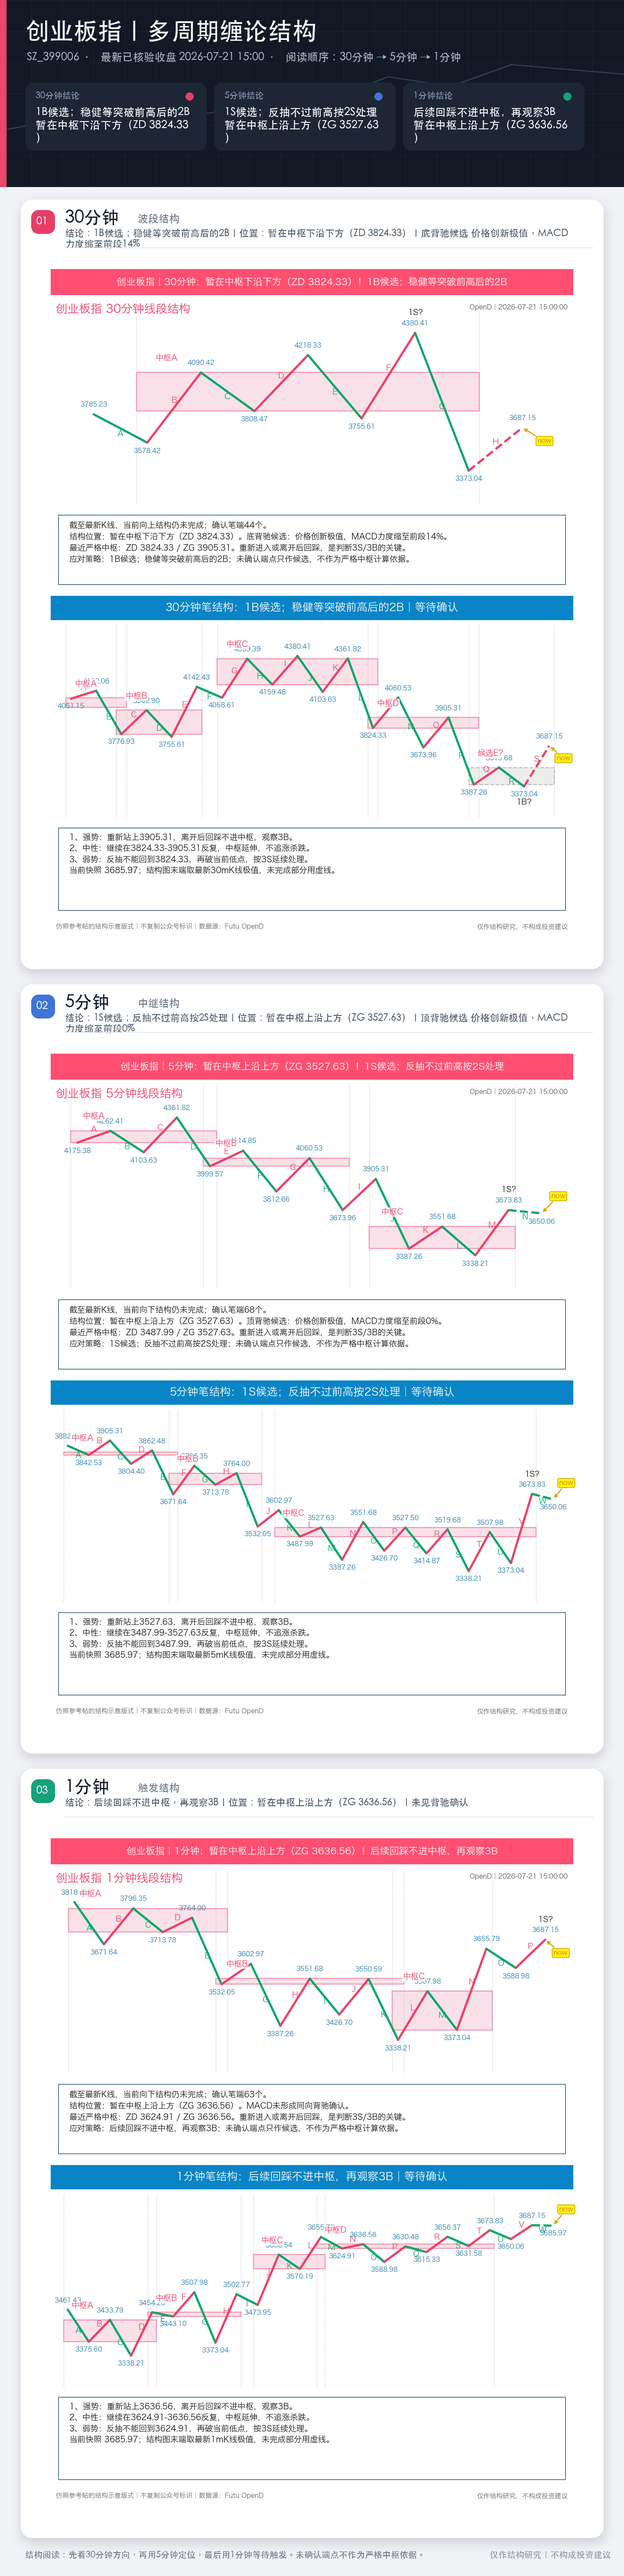
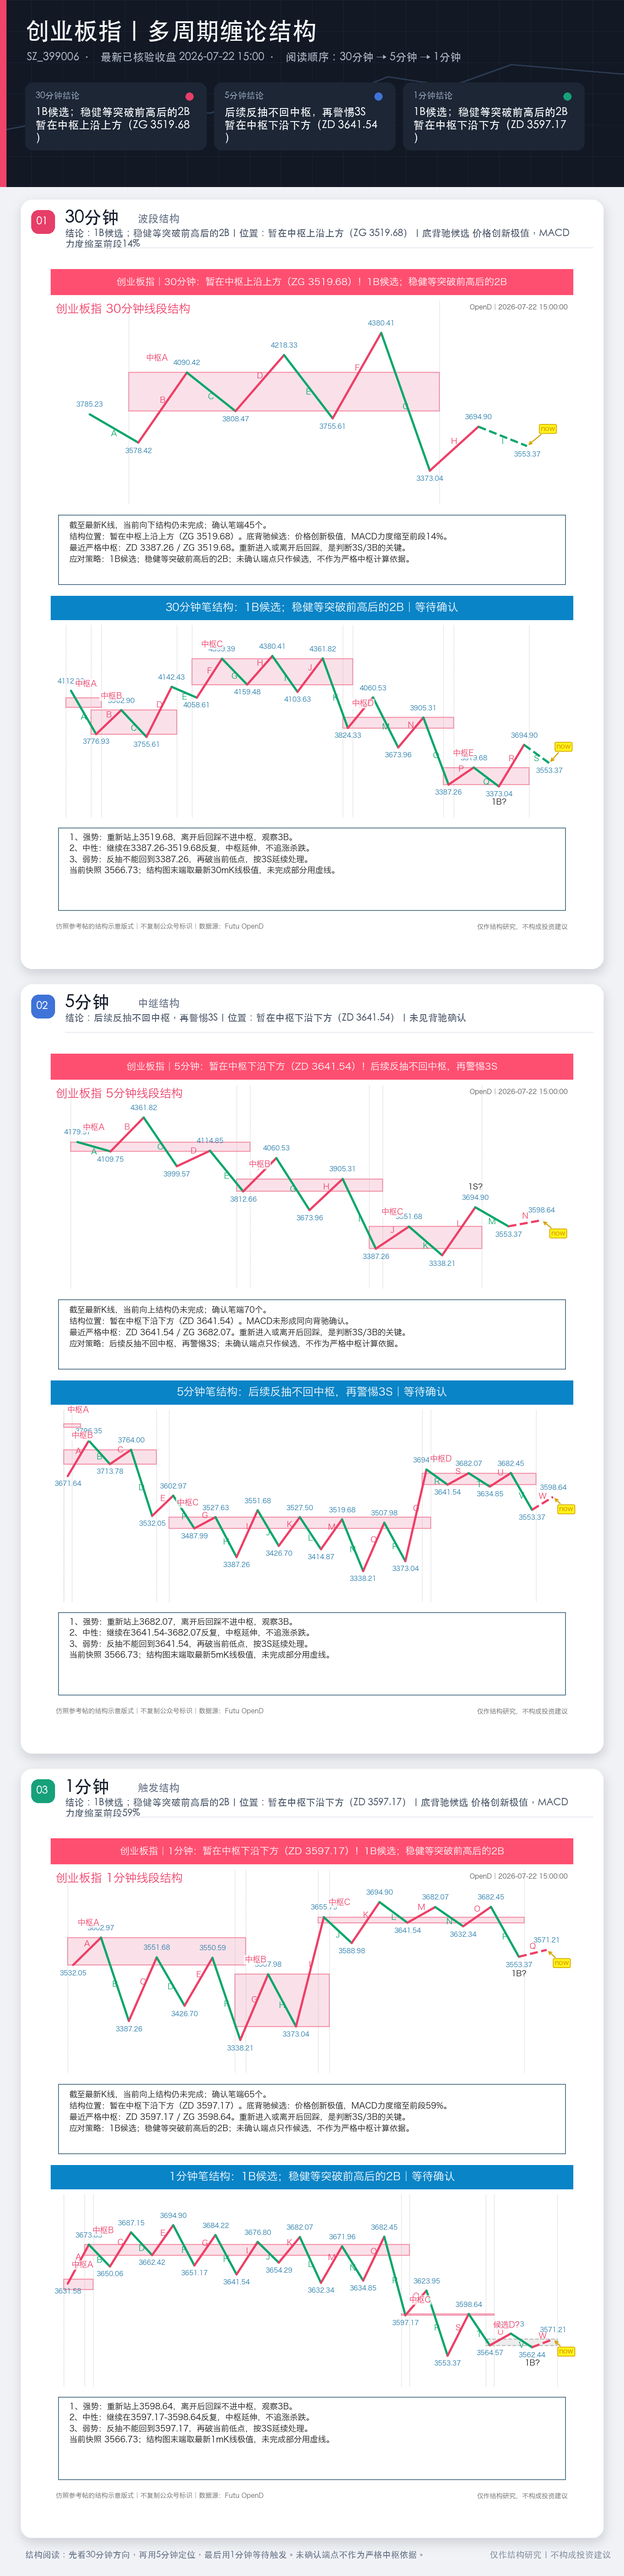
Update chanlun review for 2026-07-22

diff --git a/chanlun/index.html b/chanlun/index.html
@@ -200,8 +200,8 @@
     <header>
       <h1>A股三指数缠论复盘</h1>
       <div class="sub">
-        <span class="badge">交易日 2026-07-21</span>
-        <span class="badge">345/345 校验通过</span>
+        <span class="badge">交易日 2026-07-22</span>
+        <span class="badge">339/339 校验通过</span>
         <span class="badge">页面每 300 秒自动刷新</span>
       </div>
     </header>
@@ -210,33 +210,33 @@
               <div class="card-head">
                 <div>
                   <h2>上证指数</h2>
-                  <p>SH.000001 · 最新已核验收盘 2026-07-21 15:00:00</p>
+                  <p>SH.000001 · 最新已核验收盘 2026-07-22 15:00:00</p>
                 </div>
                 <div class="price-box">
                   <span>收盘</span>
-                  <strong>3864.37</strong>
+                  <strong>3867.03</strong>
                 </div>
               </div>
-              <img src="SH_000001_30m_5m_1m_combined_chanlun.png?v=1784619585" alt="上证指数 合并图">
+              <img src="SH_000001_30m_5m_1m_combined_chanlun.png?v=1784705990" alt="上证指数 合并图">
               <ul class="signals">
-                <li><b>30m</b><span>1B候选；稳健等突破前高后的2B</span><em>暂在中枢下沿下方（ZD 4073.73）</em></li>
-<li><b>5m</b><span>1S候选；反抽不过前高按2S处理</span><em>暂在中枢上沿上方（ZG 3820.77）</em></li>
-<li><b>1m</b><span>后续回踩不进中枢，再观察3B</span><em>暂在中枢上沿上方（ZG 3843.15）</em></li>
+                <li><b>30m</b><span>1B候选；稳健等突破前高后的2B</span><em>暂在中枢上沿上方（ZG 3828.34）</em></li>
+<li><b>5m</b><span>后续回踩不进中枢，再观察3B</span><em>暂在中枢上沿上方（ZG 3820.77）</em></li>
+<li><b>1m</b><span>后续反抽不回中枢，再警惕3S</span><em>暂在中枢下沿下方（ZD 3870.36）</em></li>
               </ul>
               <div class="analysis">
                 <h3>当前点位分析</h3>
                 <ul>
-                  <li>30分钟当前是“1B候选；稳健等突破前高后的2B”，位置为“暂在中枢下沿下方（ZD 4073.73）”；底背驰候选：价格创新极值，MACD力度缩至前段6%，说明有反抽基础，但还不是确认买点。</li>
-                  <li>5分钟当前信号为“1S候选；反抽不过前高按2S处理”，位置为“暂在中枢上沿上方（ZG 3820.77）”；顶背驰候选：价格创新极值，MACD力度缩至前段11%。</li>
-                  <li>1分钟当前是“后续回踩不进中枢，再观察3B”，位置为“暂在中枢上沿上方（ZG 3843.15）”；这里的含义是暂时站在中枢上沿外侧，不等于已经确认3B。</li>
+                  <li>30分钟当前是“1B候选；稳健等突破前高后的2B”，位置为“暂在中枢上沿上方（ZG 3828.34）”；底背驰候选：价格创新极值，MACD力度缩至前段6%，说明有反抽基础，但还不是确认买点。</li>
+                  <li>5分钟当前是“后续回踩不进中枢，再观察3B”，位置为“暂在中枢上沿上方（ZG 3820.77）”；这里的含义是暂时站在中枢上沿外侧，不等于已经确认3B。</li>
+                  <li>1分钟当前是“后续反抽不回中枢，再警惕3S”，位置为“暂在中枢下沿下方（ZD 3870.36）”；MACD未见同向背驰确认。</li>
                 </ul>
               </div>
               <div class="outlook">
-                <h3>下一交易日预案（2026-07-22，节假日顺延）</h3>
+                <h3>下一交易日预案（2026-07-23，节假日顺延）</h3>
                 <ul>
-                  <li>强势修复：先看 1 分钟能否继续站在 3843.15 上方，若后续回踩不进中枢，再上看 5 分钟修复位 3762.86，再强才谈 3820.77 以上的延续。</li>
-                  <li>中性震荡：若主要在 3762.86-3843.15 之间反复，就继续按修复中的箱体震荡看；未重新回到 3762.86 上方前，不把它当反转。</li>
-                  <li>弱势破位：若重新跌回 3843.15 下方且再破今日低点 3743.36，则本轮回抽视为失败，继续等新的 1B/B1；30 分钟未回到 4073.73 附近前，不按主结构修复处理。</li>
+                  <li>强势修复：先看 1 分钟能否继续站在 3879.21 上方，若后续回踩不进中枢，再上看 5 分钟修复位 3762.86，再强才谈 3820.77 以上的延续。</li>
+                  <li>中性震荡：若主要在 3762.86-3879.21 之间反复，就继续按修复中的箱体震荡看；未重新回到 3762.86 上方前，不把它当反转。</li>
+                  <li>弱势破位：若重新跌回 3879.21 下方且再破今日低点 3839.67，则本轮回抽视为失败，继续等新的 1B/B1；30 分钟未回到 3745.17 附近前，不按主结构修复处理。</li>
                 </ul>
               </div>
             </section>
@@ -244,33 +244,33 @@
               <div class="card-head">
                 <div>
                   <h2>创业板指</h2>
-                  <p>SZ.399006 · 最新已核验收盘 2026-07-21 15:00:00</p>
+                  <p>SZ.399006 · 最新已核验收盘 2026-07-22 15:00:00</p>
                 </div>
                 <div class="price-box">
                   <span>收盘</span>
-                  <strong>3685.97</strong>
+                  <strong>3566.73</strong>
                 </div>
               </div>
-              <img src="SZ_399006_30m_5m_1m_combined_chanlun.png?v=1784619585" alt="创业板指 合并图">
+              <img src="SZ_399006_30m_5m_1m_combined_chanlun.png?v=1784705990" alt="创业板指 合并图">
               <ul class="signals">
-                <li><b>30m</b><span>1B候选；稳健等突破前高后的2B</span><em>暂在中枢下沿下方（ZD 3824.33）</em></li>
-<li><b>5m</b><span>1S候选；反抽不过前高按2S处理</span><em>暂在中枢上沿上方（ZG 3527.63）</em></li>
-<li><b>1m</b><span>后续回踩不进中枢，再观察3B</span><em>暂在中枢上沿上方（ZG 3636.56）</em></li>
+                <li><b>30m</b><span>1B候选；稳健等突破前高后的2B</span><em>暂在中枢上沿上方（ZG 3519.68）</em></li>
+<li><b>5m</b><span>后续反抽不回中枢，再警惕3S</span><em>暂在中枢下沿下方（ZD 3641.54）</em></li>
+<li><b>1m</b><span>1B候选；稳健等突破前高后的2B</span><em>暂在中枢下沿下方（ZD 3597.17）</em></li>
               </ul>
               <div class="analysis">
                 <h3>当前点位分析</h3>
                 <ul>
-                  <li>30分钟当前是“1B候选；稳健等突破前高后的2B”，位置为“暂在中枢下沿下方（ZD 3824.33）”；底背驰候选：价格创新极值，MACD力度缩至前段14%，说明有反抽基础，但还不是确认买点。</li>
-                  <li>5分钟当前信号为“1S候选；反抽不过前高按2S处理”，位置为“暂在中枢上沿上方（ZG 3527.63）”；顶背驰候选：价格创新极值，MACD力度缩至前段0%。</li>
-                  <li>1分钟当前是“后续回踩不进中枢，再观察3B”，位置为“暂在中枢上沿上方（ZG 3636.56）”；这里的含义是暂时站在中枢上沿外侧，不等于已经确认3B。</li>
+                  <li>30分钟当前是“1B候选；稳健等突破前高后的2B”，位置为“暂在中枢上沿上方（ZG 3519.68）”；底背驰候选：价格创新极值，MACD力度缩至前段14%，说明有反抽基础，但还不是确认买点。</li>
+                  <li>5分钟当前是“后续反抽不回中枢，再警惕3S”，位置为“暂在中枢下沿下方（ZD 3641.54）”；MACD未见同向背驰确认。</li>
+                  <li>1分钟当前是“1B候选；稳健等突破前高后的2B”，位置为“暂在中枢下沿下方（ZD 3597.17）”；底背驰候选：价格创新极值，MACD力度缩至前段59%，说明有反抽基础，但还不是确认买点。</li>
                 </ul>
               </div>
               <div class="outlook">
-                <h3>下一交易日预案（2026-07-22，节假日顺延）</h3>
+                <h3>下一交易日预案（2026-07-23，节假日顺延）</h3>
                 <ul>
-                  <li>强势修复：先看 1 分钟能否继续站在 3636.56 上方，若后续回踩不进中枢，再上看 5 分钟修复位 3487.99，再强才谈 3527.63 以上的延续。</li>
-                  <li>中性震荡：若主要在 3487.99-3636.56 之间反复，就继续按修复中的箱体震荡看；未重新回到 3487.99 上方前，不把它当反转。</li>
-                  <li>弱势破位：若重新跌回 3636.56 下方且再破今日低点 3373.04，则本轮回抽视为失败，继续等新的 1B/B1；30 分钟未回到 3824.33 附近前，不按主结构修复处理。</li>
+                  <li>强势修复：先看 1 分钟能否继续站在 3598.64 上方，若后续回踩不进中枢，再上看 5 分钟修复位 3641.54，再强才谈 3682.07 以上的延续。</li>
+                  <li>中性震荡：若主要在 3598.64-3641.54 之间反复，就继续按修复中的箱体震荡看；未重新回到 3641.54 上方前，不把它当反转。</li>
+                  <li>弱势破位：若重新跌回 3598.64 下方且再破今日低点 3553.37，则本轮回抽视为失败，继续等新的 1B/B1；30 分钟未回到 3387.26 附近前，不按主结构修复处理。</li>
                 </ul>
               </div>
             </section>
@@ -278,33 +278,33 @@
               <div class="card-head">
                 <div>
                   <h2>科创50</h2>
-                  <p>SH.000688 · 最新已核验收盘 2026-07-21 15:00:00</p>
+                  <p>SH.000688 · 最新已核验收盘 2026-07-22 15:00:00</p>
                 </div>
                 <div class="price-box">
                   <span>收盘</span>
-                  <strong>1903.16</strong>
+                  <strong>1860.08</strong>
                 </div>
               </div>
-              <img src="SH_000688_30m_5m_1m_combined_chanlun.png?v=1784619585" alt="科创50 合并图">
+              <img src="SH_000688_30m_5m_1m_combined_chanlun.png?v=1784705990" alt="科创50 合并图">
               <ul class="signals">
                 <li><b>30m</b><span>1B候选；稳健等突破前高后的2B</span><em>暂在中枢下沿下方（ZD 1976.92）</em></li>
-<li><b>5m</b><span>1S候选；反抽不过前高按2S处理</span><em>暂在中枢上沿上方（ZG 1753.25）</em></li>
-<li><b>1m</b><span>后续回踩不进中枢，再观察3B</span><em>暂在中枢上沿上方（ZG 1882.00）</em></li>
+<li><b>5m</b><span>后续反抽不回中枢，再警惕3S</span><em>暂在中枢下沿下方（ZD 1873.03）</em></li>
+<li><b>1m</b><span>后续反抽不回中枢，再警惕3S</span><em>暂在中枢下沿下方（ZD 1888.31）</em></li>
               </ul>
               <div class="analysis">
                 <h3>当前点位分析</h3>
                 <ul>
                   <li>30分钟当前是“1B候选；稳健等突破前高后的2B”，位置为“暂在中枢下沿下方（ZD 1976.92）”；底背驰候选：价格创新极值，MACD力度缩至前段27%，说明有反抽基础，但还不是确认买点。</li>
-                  <li>5分钟当前信号为“1S候选；反抽不过前高按2S处理”，位置为“暂在中枢上沿上方（ZG 1753.25）”；顶背驰候选：价格创新极值，MACD力度缩至前段3%。</li>
-                  <li>1分钟当前是“后续回踩不进中枢，再观察3B”，位置为“暂在中枢上沿上方（ZG 1882.00）”；这里的含义是暂时站在中枢上沿外侧，不等于已经确认3B。</li>
+                  <li>5分钟当前是“后续反抽不回中枢，再警惕3S”，位置为“暂在中枢下沿下方（ZD 1873.03）”；MACD未见同向背驰确认。</li>
+                  <li>1分钟当前是“后续反抽不回中枢，再警惕3S”，位置为“暂在中枢下沿下方（ZD 1888.31）”；MACD未见同向背驰确认。</li>
                 </ul>
               </div>
               <div class="outlook">
-                <h3>下一交易日预案（2026-07-22，节假日顺延）</h3>
+                <h3>下一交易日预案（2026-07-23，节假日顺延）</h3>
                 <ul>
-                  <li>强势修复：先看 1 分钟能否继续站在 1882.00 上方，若后续回踩不进中枢，再上看 5 分钟修复位 1707.87，再强才谈 1753.25 以上的延续。</li>
-                  <li>中性震荡：若主要在 1707.87-1882.00 之间反复，就继续按修复中的箱体震荡看；未重新回到 1707.87 上方前，不把它当反转。</li>
-                  <li>弱势破位：若重新跌回 1882.00 下方且再破今日低点 1663.85，则本轮回抽视为失败，继续等新的 1B/B1；30 分钟未回到 1976.92 附近前，不按主结构修复处理。</li>
+                  <li>强势修复：先看 1 分钟能否继续站在 1914.44 上方，若后续回踩不进中枢，再上看 5 分钟修复位 1873.03，再强才谈 1916.12 以上的延续。</li>
+                  <li>中性震荡：若主要在 1873.03-1914.44 之间反复，就继续按修复中的箱体震荡看；未重新回到 1873.03 上方前，不把它当反转。</li>
+                  <li>弱势破位：若重新跌回 1914.44 下方且再破今日低点 1836.11，则本轮回抽视为失败，继续等新的 1B/B1；30 分钟未回到 1976.92 附近前，不按主结构修复处理。</li>
                 </ul>
               </div>
             </section>
